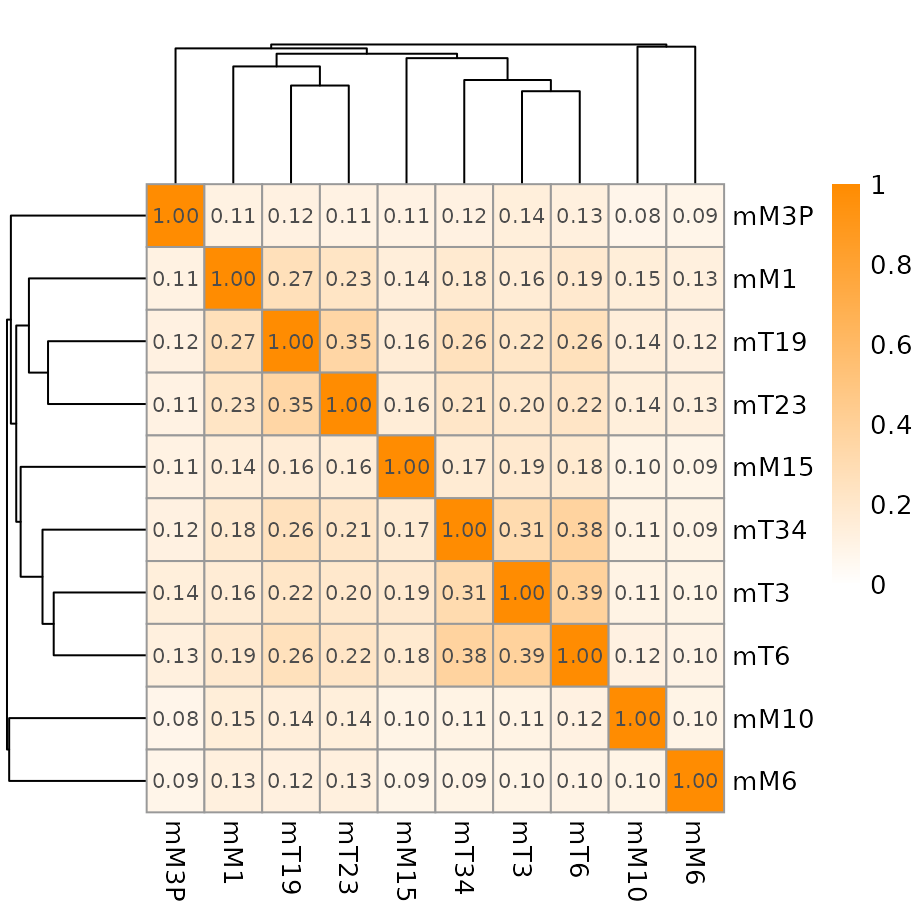
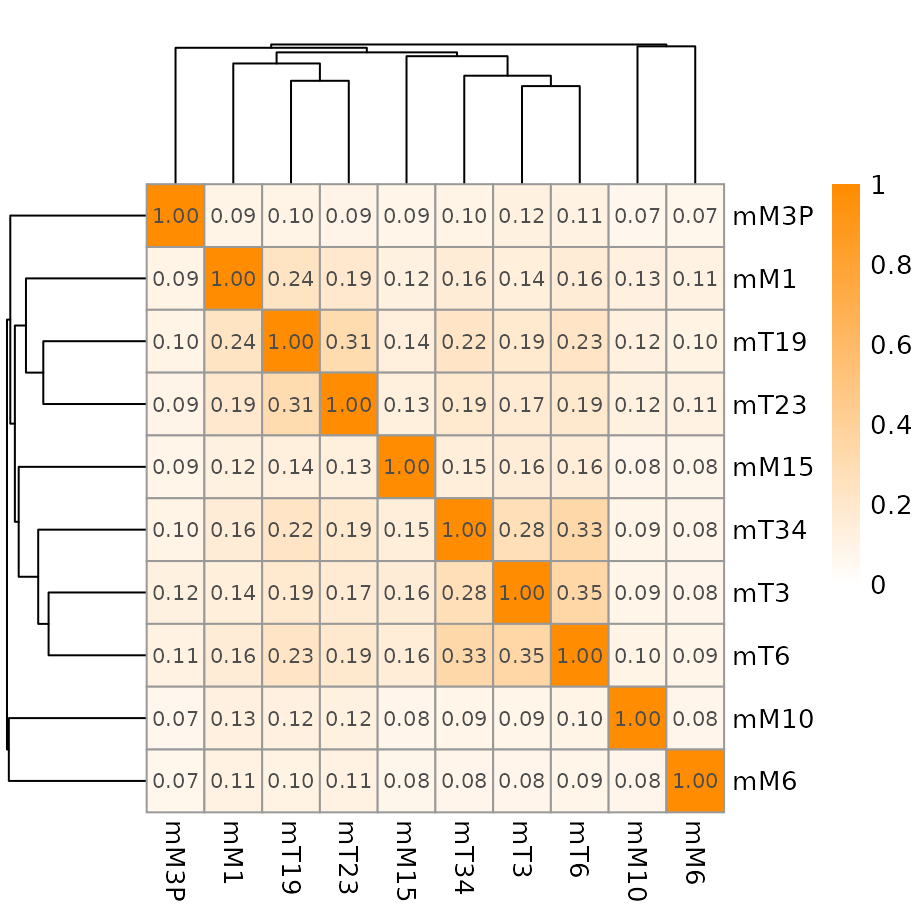
Built site for CNVMetrics: 0.1.5@562c023

diff --git a/articles/CNVMetrics.html b/articles/CNVMetrics.html
@@ -96,7 +96,7 @@ document.addEventListener("DOMContentLoaded", function() {
     if (links[i].hostname != window.location.hostname)
       links[i].target = '_blank';
 });
-</script><p><br><strong>Package</strong>: <em>CNVMetrics</em><br><strong>Authors</strong>: Astrid Deschênes [aut, cre] (<a href="https://orcid.org/0000-0001-7846-6749" class="uri">https://orcid.org/0000-0001-7846-6749</a>), Pascal Belleau [aut] (<a href="https://orcid.org/0000-0002-0802-1071" class="uri">https://orcid.org/0000-0002-0802-1071</a>), Alexander Krasnitz [aut]<br><strong>Version</strong>: 0.1.5<br><strong>Compiled date</strong>: 2021-08-03<br><strong>License</strong>: Artistic-2.0<br></p>
+</script><p><br><strong>Package</strong>: <em>CNVMetrics</em><br><strong>Authors</strong>: Astrid Deschênes [aut, cre] (<a href="https://orcid.org/0000-0001-7846-6749" class="uri">https://orcid.org/0000-0001-7846-6749</a>), Pascal Belleau [aut] (<a href="https://orcid.org/0000-0002-0802-1071" class="uri">https://orcid.org/0000-0002-0802-1071</a>), Alexander Krasnitz [aut]<br><strong>Version</strong>: 0.1.5<br><strong>Compiled date</strong>: 2021-08-04<br><strong>License</strong>: Artistic-2.0<br></p>
 <p><br><br></p>
 <div id="licensing" class="section level1">
 <h1 class="hasAnchor">
@@ -474,12 +474,12 @@ Example of a copy number file containing log2ratio values.
 ## weightedEuclideanDistance
 ## 
 ## LOG2RATIO:
-##            mM1       mM10       mM15       mM3P mM6
-## mM1         NA         NA         NA         NA  NA
-## mM10 0.1464966         NA         NA         NA  NA
-## mM15 0.1418869 0.09603109         NA         NA  NA
-## mM3P 0.1119665 0.08102932 0.10665057         NA  NA
-## mM6  0.1271844 0.09540328 0.09000475 0.08515659  NA
+##             mM1       mM10       mM15       mM3P mM6
+## mM1          NA         NA         NA         NA  NA
+## mM10 0.12503352         NA         NA         NA  NA
+## mM15 0.12100344 0.08125775         NA         NA  NA
+## mM3P 0.09499932 0.06838924 0.09040692         NA  NA
+## mM6  0.10819206 0.08071789 0.07608047 0.07192307  NA
 ## [ -- omitted 5 rows/columns ]</code></pre>
 </div>
 <div id="metric-visualization-1" class="section level2">

diff --git a/reference/calculateOneLog2valueMetric.html b/reference/calculateOneLog2valueMetric.html
@@ -216,7 +216,7 @@ Biologiske Skrifter, no. 5: 1–34.</p>
 <span class='fu'>CNVMetrics</span><span class='fu'>:::</span><span class='fu'>calculateOneLog2valueMetric</span><span class='op'>(</span><span class='va'>sample01</span>, <span class='va'>sample02</span>,
     bedExclusion<span class='op'>=</span><span class='cn'>NULL</span>, method<span class='op'>=</span><span class='st'>"weightedEuclideanDistance"</span>, 
     minThreshold<span class='op'>=</span><span class='fl'>0.2</span><span class='op'>)</span>
-</div><div class='output co'>#&gt; [1] 0.2016362</div><div class='input'>
+</div><div class='output co'>#&gt; [1] 0.1737391</div><div class='input'>
 
 </div></pre>
   </div>

diff --git a/reference/calculateWeightedEuclideanDistanceFor2Samples.html b/reference/calculateWeightedEuclideanDistanceFor2Samples.html
@@ -164,7 +164,7 @@ assigned.</p>
     <h2 class="hasAnchor" id="details"><a class="anchor" href="#details"></a>Details</h2>
 
     <p>The weighted euclidean distance is 
-\(1/(1 + (\sum((x_i - y_i)^2 * log(nbrBases_i))^0.5)\) 
+\(1/(1 + (\sum((x_i - y_i)^2 * log2(nbrBases_i))^0.5)\) 
 where <code>x</code> and <code>y</code> are the
 values of 2 samples for a specific segment <code>i</code> and <code>nbrBases</code> the 
 number of bases of the segment <code>i</code>.</p>

diff --git a/reference/calculateLog2ratioMetric.html b/reference/calculateLog2ratioMetric.html
@@ -231,8 +231,8 @@ number of bases of the segment <code>i</code>.</p>
 #&gt; LOG2RATIO:
 #&gt;            sample01 sample02 sample03
 #&gt; sample01         NA       NA       NA
-#&gt; sample02 0.07606731       NA       NA
-#&gt; sample03 0.08826235       NA       NA
+#&gt; sample02 0.06414725       NA       NA
+#&gt; sample03 0.07458553       NA       NA
 #&gt; </div><div class='input'>
 
 </div></pre>
